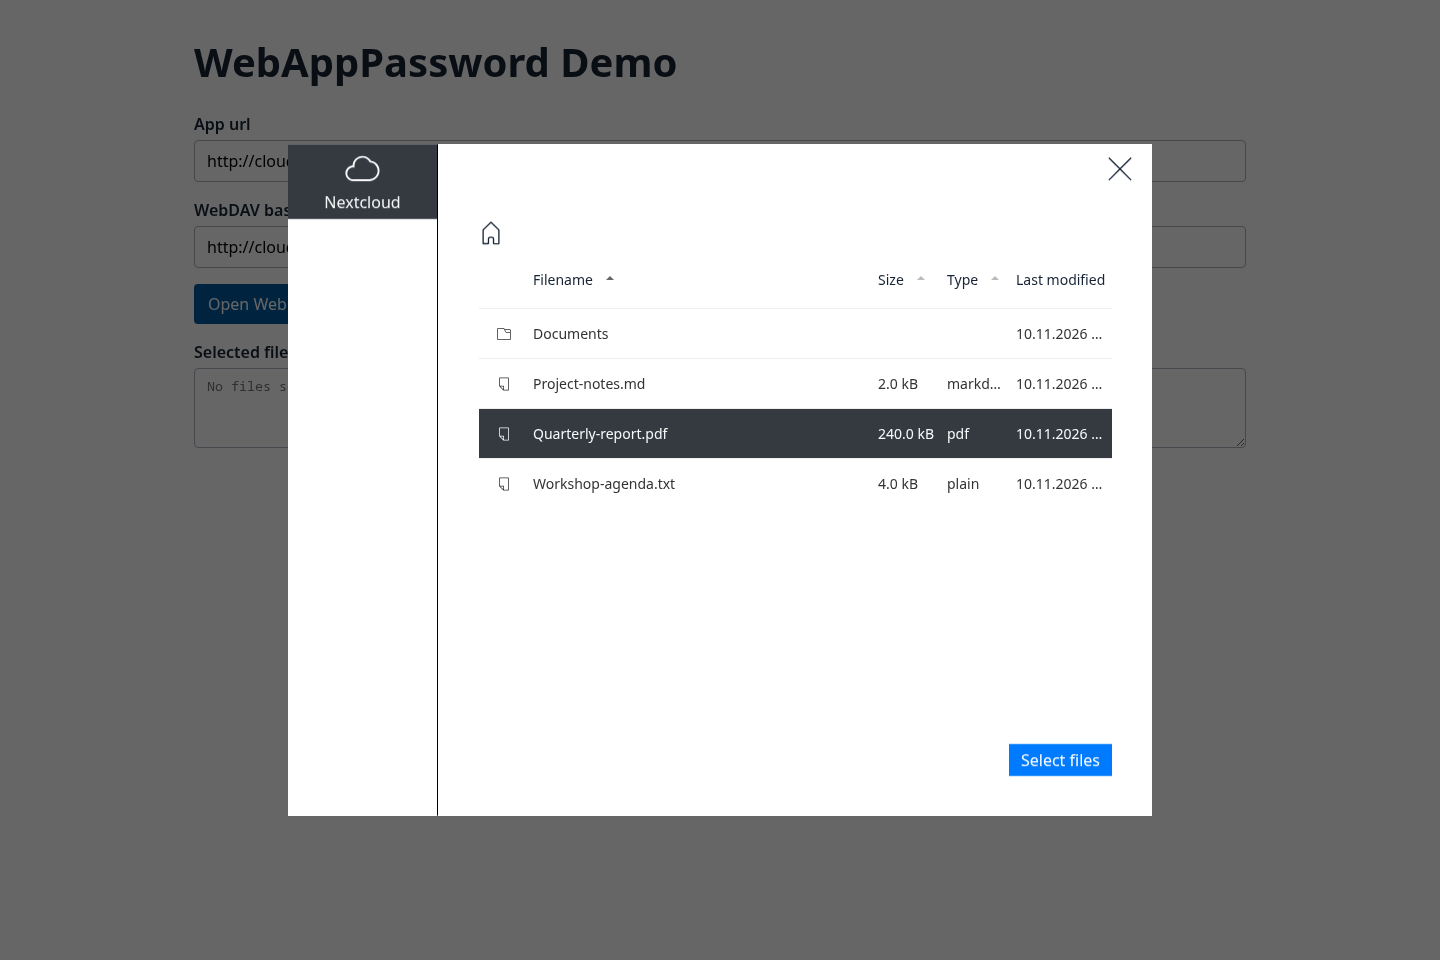
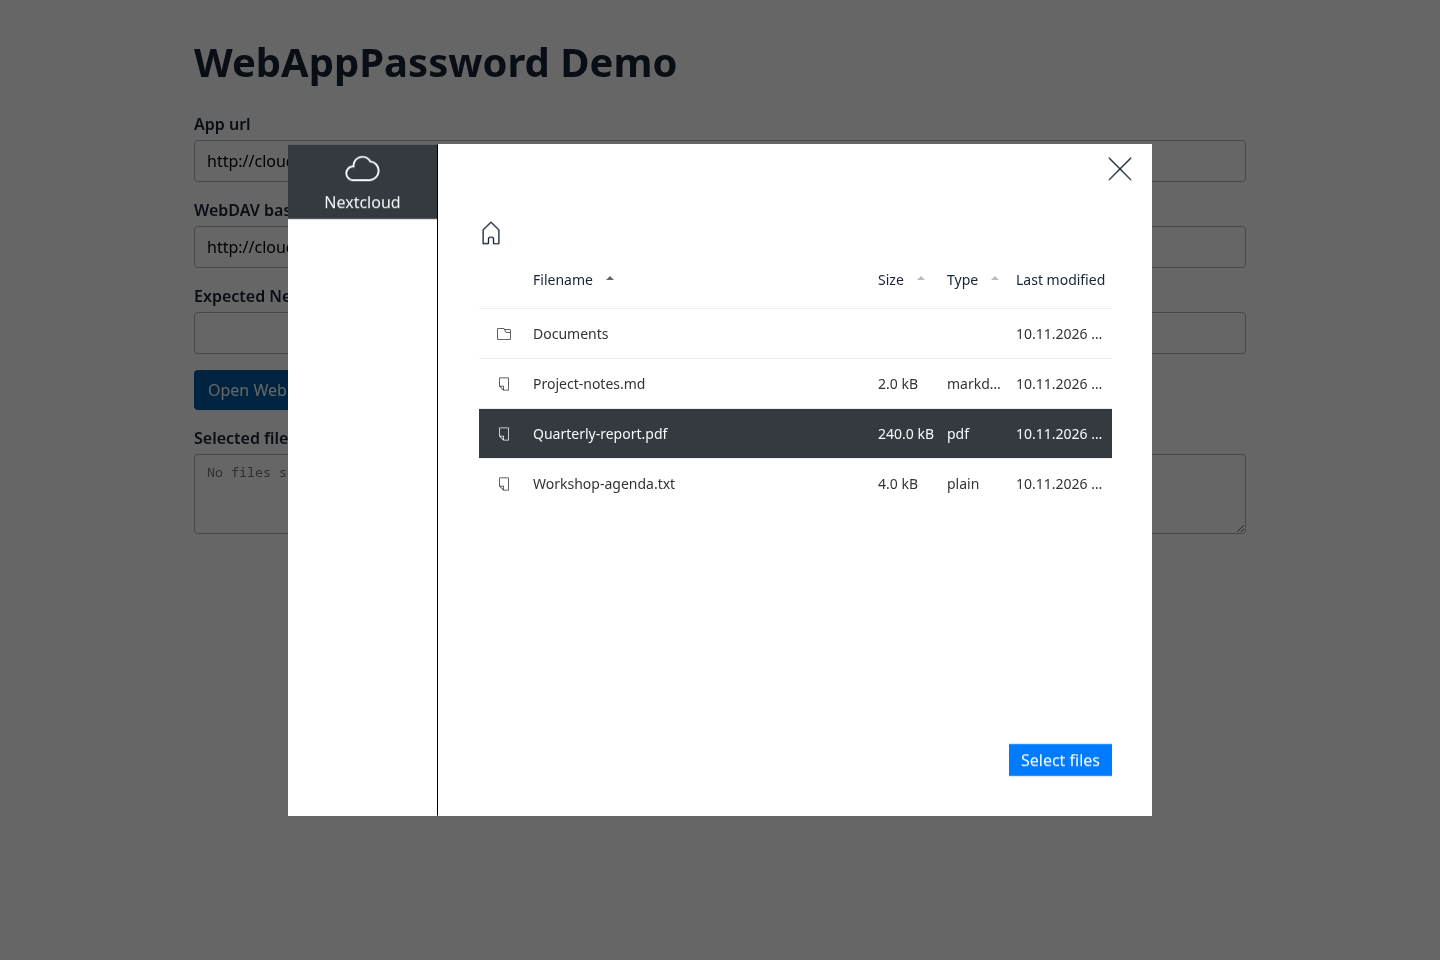
feat: check the expected Nextcloud account before issuing a token (#62)

Changed region(s): [[0.125, 0.2812, 0.2188, 0.5]]

diff --git a/docs/example/index.html b/docs/example/index.html
@@ -43,6 +43,10 @@
             </div>
         </div>
 
+        <div class="form-group">
+            <label for="expected-uid">Expected Nextcloud UID (optional, for WebDAV response)</label>
+            <input type="text" id="expected-uid">
+        </div>
         <button onclick="openFilePicker()" class="btn btn-primary">Open WebDAV file picker</button>
         <button onclick="login()" class="btn btn-secondary">Show WebDAV response</button>
         <div class="form-group mt-3">
@@ -76,11 +80,13 @@
 </body>
 <script>
     let wnd = null;
+    let pendingLogin = null;
     const outputArea = document.querySelector("#output-area");
     const output = document.querySelector("#output");
     const output2 = document.querySelector("#output2");
     const appUrl = document.querySelector("#app-url");
     const webdavUrl = document.querySelector("#webdav-url");
+    const expectedUidInput = document.querySelector("#expected-uid");
     const fileSource = document.querySelector("#file-source");
     const selectedFiles = document.querySelector("#selected-files");
     let selectedFileNames = [];
@@ -91,7 +97,15 @@
         output2.value = "";
 
         // open auth window of WebAppPassword application
-        wnd = window.open(appUrl.value + "?target-origin=" + encodeURIComponent(window.location.href), "Nextcloud Login",
+        const authUrl = new URL(appUrl.value);
+        const expectedUid = expectedUidInput.value;
+        authUrl.searchParams.set("target-origin", window.location.origin);
+        authUrl.searchParams.delete("expected-uid");
+        if (expectedUid !== "") {
+            authUrl.searchParams.set("expected-uid", expectedUid);
+        }
+        pendingLogin = { origin: authUrl.origin, expectedUid };
+        wnd = window.open(authUrl, "WebAppPassword demo login",
             "width=400,height=400,menubar=no,scrollbars=no,status=no,titlebar=no,toolbar=no");
     }
 
@@ -111,11 +125,22 @@
 
     // receives the "window.opener.postMessage" from https://github.com/digital-blueprint/webapppassword/blob/main/js/script.js
     window.addEventListener('message', (event) => {
+        if (!pendingLogin || !wnd || event.source !== wnd || event.origin !== pendingLogin.origin) {
+            return;
+        }
         const data = event.data;
 
-        if (data.type === "webapppassword") {
-            if (wnd !== null) {
-                wnd.close();
+        if (data?.type === "webapppassword-error" && data.error === "account_mismatch") {
+            pendingLogin = null;
+            output.value = "Switch to the expected Nextcloud account and retry.";
+        }
+        if (data?.type === "webapppassword") {
+            const { expectedUid } = pendingLogin;
+            pendingLogin = null;
+            wnd.close();
+            if (expectedUid !== "" && data.uid !== expectedUid) {
+                output.value = "The Nextcloud account could not be verified.";
+                return;
             }
 
             output.value = JSON.stringify(data);
@@ -125,7 +150,7 @@
             headers.set('Authorization', 'Basic ' + btoa(data.loginName + ":" + data.token));
 
             // do PROPFIND WebDAV request
-            fetch(webdavUrl.value + "/" + data.loginName, {
+            fetch(data.webdavUrl || webdavUrl.value + "/" + data.loginName, {
                 method: 'PROPFIND', // *GET, POST, PUT, DELETE, etc.
                 cache: 'no-cache', // *default, no-cache, reload, force-cache, only-if-cached
                 headers: headers

diff --git a/js/script.js b/js/script.js
@@ -1,6 +1,13 @@
 const apiUrl = OC.generateUrl("/apps/webapppassword/create");
 const url = new URL(window.location.href);
-const targetOrigin = decodeURIComponent(url.searchParams.get("target-origin"));
+const targetOrigin = url.searchParams.get("target-origin");
+const uidKey = "expected-uid";
+const expectedUids = url.searchParams.getAll(uidKey);
+const body = new URLSearchParams();
+if (expectedUids.length > 0) {
+  // Reject ambiguous requests instead of silently picking one account.
+  body.set(uidKey, expectedUids.length === 1 ? expectedUids[0] : "");
+}
 
 fetch(apiUrl, {
   method: "POST",
@@ -8,17 +15,43 @@ fetch(apiUrl, {
     "target-origin": targetOrigin,
     requesttoken: OC.requestToken,
   },
+  body,
 })
-  .then((response) => response.json())
-  .then((data) => {
-    // console.log("data", data);
+  .then(async (response) => {
+    const data = await response.json();
+    if (response.status === 409 && data.error === "account_mismatch") {
+      document.querySelector("#app-content").textContent = t(
+        "webapppassword",
+        "Switch to the expected Nextcloud account and retry.",
+      );
+      window.opener?.postMessage(
+        { type: "webapppassword-error", error: "account_mismatch" },
+        targetOrigin,
+      );
+      return;
+    }
+    if (
+      !response.ok ||
+      !data.token ||
+      (body.has(uidKey) && data.uid !== body.get(uidKey))
+    ) {
+      throw new Error("App password request failed");
+    }
+
     const message = {
       type: "webapppassword",
       loginName: data.loginName,
       token: data.token,
       webdavUrl: data.webdavUrl,
     };
-    window.opener.postMessage(message, targetOrigin);
-    // console.log("targetOrigin", targetOrigin);
-    // console.log("message", message);
+    if (body.has(uidKey)) {
+      message.uid = data.uid;
+    }
+    window.opener?.postMessage(message, targetOrigin);
+  })
+  .catch(() => {
+    document.querySelector("#app-content").textContent = t(
+      "webapppassword",
+      "Could not create a temporary app password.",
+    );
   });

diff --git a/l10n/de.js b/l10n/de.js
@@ -9,6 +9,10 @@ OC.L10N.register(
     "This origin is not allowed!": "Diese Webseite ist nicht erlaubt!",
     "This page should be closed shortly!":
       "Diese Seite sollte sich in Kürze schließen!",
+    "Switch to the expected Nextcloud account and retry.":
+      "Wechseln Sie zum erwarteten Nextcloud-Konto und versuchen Sie es erneut.",
+    "Could not create a temporary app password.":
+      "Es konnte kein temporäres App-Passwort erstellt werden.",
     "Suggestions:": "Vorschläge:",
     "Add a scheme, e.g. https://example.com":
       "Bitte ein Schema angeben, z. B. https://example.com",

diff --git a/tests/Unit/Controller/PageControllerTest.php b/tests/Unit/Controller/PageControllerTest.php
@@ -9,6 +9,7 @@ use OC\Authentication\Token\IToken;
 use OCA\WebAppPassword\AppInfo\Application;
 use OCA\WebAppPassword\Config\Config;
 use OCA\WebAppPassword\Controller\PageController;
+use OCP\AppFramework\Http;
 use OCP\AppFramework\Http\DataResponse;
 use OCP\AppFramework\Http\TemplateResponse;
 use OCP\AppFramework\Utility\ITimeFactory;
@@ -18,6 +19,7 @@ use OCP\ISession;
 use OCP\IUser;
 use OCP\IUserSession;
 use OCP\Security\ISecureRandom;
+use PHPUnit\Framework\Attributes\DataProvider;
 use PHPUnit\Framework\TestCase;
 use Psr\Log\LoggerInterface;
 
@@ -60,12 +62,18 @@ class PageControllerTest extends TestCase {
 
 		$this->assertEquals('index', $result->getTemplateName());
 		$this->assertTrue($result instanceof TemplateResponse);
+		$this->assertSame(Http::STATUS_FORBIDDEN, $result->getStatus());
 	}
 
-	public function testCreateTokenCreatesExpiringPermanentToken() {
+	/**
+	 * @dataProvider acceptedExpectedUids
+	 */
+	#[DataProvider('acceptedExpectedUids')]
+	public function testCreateTokenCreatesExpiringPermanentToken(?string $expectedUid): void {
 		$user = $this->getMockBuilder(IUser::class)->getMock();
 		$user->method('getUID')->willReturn('user1');
 		$this->userSession->method('getUser')->willReturn($user);
+		$this->request->method('getParam')->with('expected-uid')->willReturn($expectedUid);
 
 		$this->session->method('getId')->willReturn('session-token');
 
@@ -103,6 +111,51 @@ class PageControllerTest extends TestCase {
 		$result = $this->controller->createToken();
 
 		$this->assertTrue($result instanceof DataResponse);
-		$this->assertSame('generated-token', $result->getData()['token']);
+		$this->assertSame(Http::STATUS_OK, $result->getStatus());
+		$data = $result->getData();
+		$this->assertSame('generated-token', $data['token']);
+		$this->assertSame('login-name', $data['loginName']);
+		if ($expectedUid !== null) {
+			$this->assertSame('user1', $data['uid']);
+		} else {
+			$this->assertArrayNotHasKey('uid', $data);
+		}
+	}
+
+	public static function acceptedExpectedUids(): array {
+		return [
+			'legacy caller' => [null],
+			'matching UID, different login name' => ['user1'],
+		];
+	}
+
+	/**
+	 * @dataProvider rejectedExpectedUids
+	 */
+	#[DataProvider('rejectedExpectedUids')]
+	public function testCreateTokenRejectsUnexpectedAccountWithoutIssuingToken(mixed $expectedUid, int $status, string $error): void {
+		$user = $this->createMock(IUser::class);
+		$user->method('getUID')->willReturn('user1');
+		$this->userSession->method('getUser')->willReturn($user);
+		$this->request->method('getParam')->with('expected-uid')->willReturn($expectedUid);
+		$this->provider->expects($this->never())->method('getToken');
+		$this->secureRandom->expects($this->never())->method('generate');
+		$this->provider->expects($this->never())->method('generateToken');
+		$this->provider->expects($this->never())->method('updateToken');
+
+		$response = $this->controller->createToken();
+
+		$this->assertSame($status, $response->getStatus());
+		$this->assertSame(['error' => $error], $response->getData());
+	}
+
+	public static function rejectedExpectedUids(): array {
+		return [
+			'different account' => ['user2', Http::STATUS_CONFLICT, 'account_mismatch'],
+			'login name instead of UID' => ['login-name', Http::STATUS_CONFLICT, 'account_mismatch'],
+			'case mismatch' => ['User1', Http::STATUS_CONFLICT, 'account_mismatch'],
+			'empty account' => ['', Http::STATUS_BAD_REQUEST, 'invalid_expected_uid'],
+			'array instead of UID' => [['user1'], Http::STATUS_BAD_REQUEST, 'invalid_expected_uid'],
+		];
 	}
 }

diff --git a/lib/Controller/PageController.php b/lib/Controller/PageController.php
@@ -72,7 +72,7 @@ class PageController extends Controller {
 	protected function hasAllowedOrigin(): bool {
 		$targetOrigin = $this->request->getParam('target-origin');
 
-		if ($targetOrigin === '') {
+		if (!is_string($targetOrigin) || $targetOrigin === '') {
 			return false;
 		}
 
@@ -113,6 +113,16 @@ class PageController extends Controller {
 	 */
 	#[NoAdminRequired]
 	public function createToken() {
+		$expectedUid = $this->request->getParam('expected-uid');
+		if ($expectedUid !== null && (!is_string($expectedUid) || $expectedUid === '')) {
+			return new DataResponse(['error' => 'invalid_expected_uid'], Http::STATUS_BAD_REQUEST);
+		}
+
+		$uid = $this->userSession->getUser()->getUID();
+		if ($expectedUid !== null && $expectedUid !== $uid) {
+			return new DataResponse(['error' => 'account_mismatch'], Http::STATUS_CONFLICT);
+		}
+
 		// If we are using the $this->credentialStore (OCP\Authentication\LoginCredentials\IStore)
 		// we will get empty passwords from our OIDC accounts, this causes \OC\User\Session::checkTokenCredentials
 		// to invalidate the token in the first check after 5min, using $this->session solves the problem
@@ -149,8 +159,6 @@ class PageController extends Controller {
 			throw new OCSForbiddenException();
 		}
 
-		$uid = $this->userSession->getUser()->getUID();
-		//        \OC::$server->getLogger()->warning('uid: ' . var_export($uid, true));
 		$targetOrigin = $this->request->getHeader('target-origin');
 		$name = Application::TOKEN_NAME_PREFIX . $targetOrigin . ' ' . $this->request->getHeader('USER_AGENT');
 		$token = $this->random->generate(
@@ -170,12 +178,15 @@ class PageController extends Controller {
 		$dbToken->setExpires($this->timeFactory->getTime() + Application::TOKEN_LIFETIME);
 		$this->tokenProvider->updateToken($dbToken);
 
-		return new DataResponse(
-			[
-				'loginName' => $loginName,
-				'token' => $token,
-				'webdavUrl' => \OCP\Util::linkToRemote('dav/files/' . $uid),
-			]
-		);
+		$data = [
+			'loginName' => $loginName,
+			'token' => $token,
+			'webdavUrl' => \OCP\Util::linkToRemote('dav/files/' . $uid),
+		];
+		if ($expectedUid !== null) {
+			$data['uid'] = $uid;
+		}
+
+		return new DataResponse($data);
 	}
 }

diff --git a/README.md b/README.md
@@ -127,6 +127,30 @@ Take a look at [index.html](docs/example/index.html) for the source code of the 
 
 ![Example WebDAV response with a dummy token and fictional files](docs/screenshots/webdav.webp)
 
+### Require an expected Nextcloud account
+
+If the calling application knows the user's **Nextcloud UID** (not necessarily their login name),
+it can add an `expected-uid` query parameter to the auth popup URL alongside `target-origin`.
+Build the URL with `URLSearchParams` so the UID is encoded correctly. Omit the parameter if
+the account is not known; an empty value is not valid. The demo's **Show WebDAV response**
+button supports this option.
+
+The popup forwards `expected-uid` to `POST /apps/webapppassword/create`, which compares it
+exactly against the signed-in account's UID before creating a token:
+
+- On match, the usual `webapppassword` message includes an additional `uid` field. Check that
+  it matches the requested UID before using the token. If missing, the server may be too old
+  to support the check.
+- On mismatch, the endpoint returns HTTP `409` and the popup sends
+  `{type: "webapppassword-error", error: "account_mismatch"}`. No token is issued. Switch
+  accounts in Nextcloud and retry; the app does not log anyone out automatically.
+- Without `expected-uid`, the response and active-account behavior are unchanged.
+
+Only accept messages from the Nextcloud auth popup and its configured origin. If your
+picker also remembers WebDAV credentials, retain the verified UID alongside them and
+discard or bypass cached credentials if the UID is missing or does not match the expected
+account. Opening the popup is the only time this app can check the browser's Nextcloud account.
+
 ## Running tests
 
 You can use the provided Makefile to run all tests by using:

diff --git a/CHANGELOG.md b/CHANGELOG.md
@@ -2,6 +2,8 @@
 
 ## Unreleased
 
+- Added an opt-in check for the expected Nextcloud UID before issuing an app password
+  (for [#62](https://github.com/digital-blueprint/webapppassword/issues/62))
 - Added opt-in DAV CORS preflight caching in the admin settings and `config.php`. Unset installations keep their previous behavior
   (for [#351](https://github.com/digital-blueprint/webapppassword/issues/351))
 - Origins with explicit default ports (`:80` for HTTP and `:443` for HTTPS) now match origins without a port
